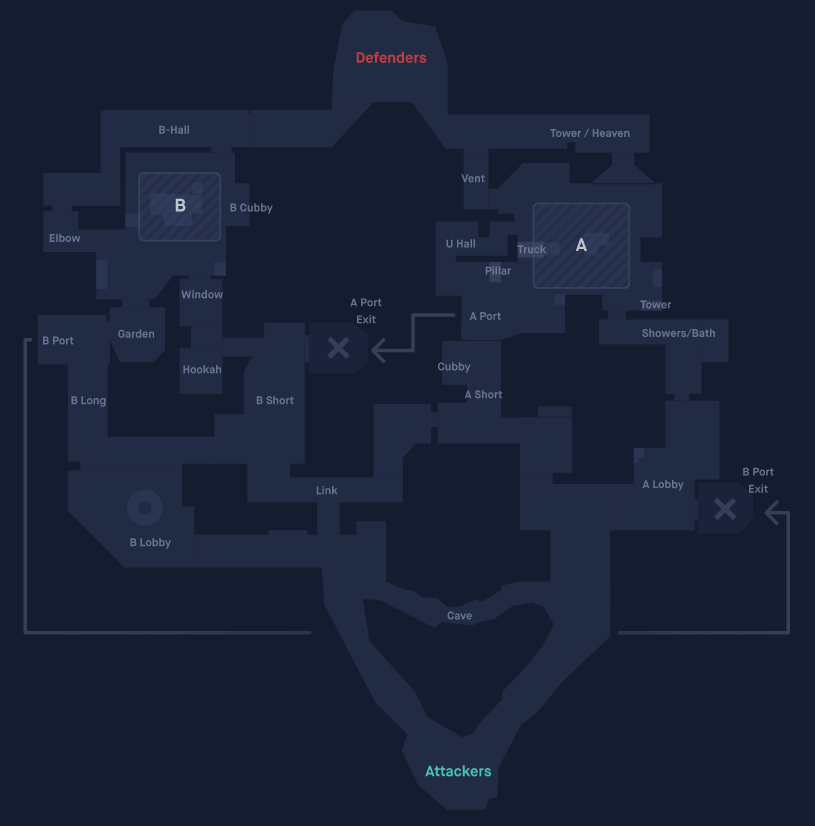
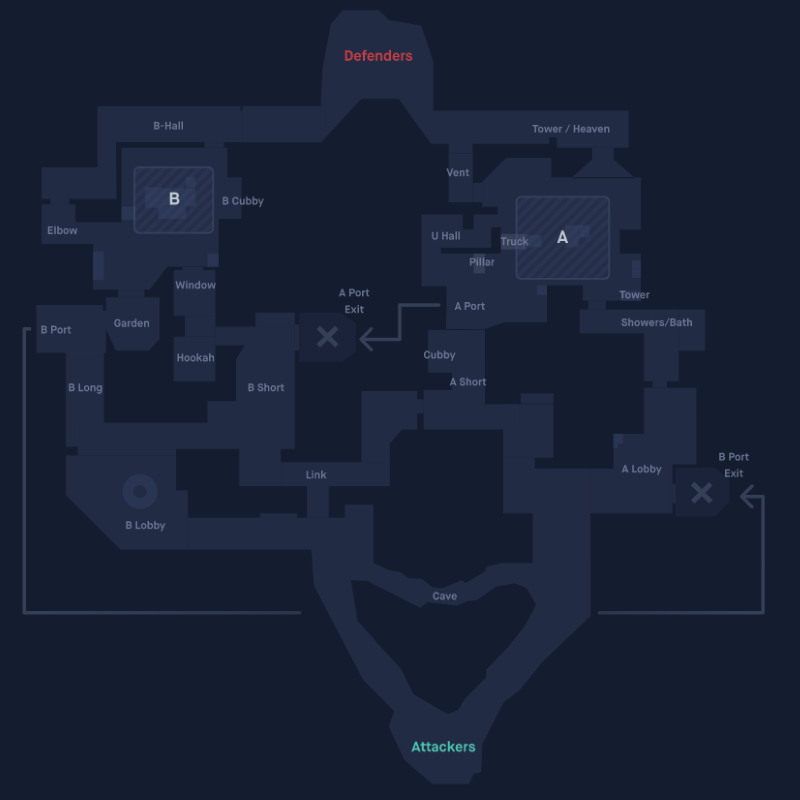
scaled map images to be the same resolution and a consistent size in the viewer so abilities are always the right size. Changed map image drawing to be a part of the canvas. Implemented debug sliders

diff --git a/ValorantStratPlanner/src/StratEditor/StratEditor.java b/ValorantStratPlanner/src/StratEditor/StratEditor.java
@@ -9,7 +9,9 @@ import javafx.event.ActionEvent;
 import javafx.event.EventHandler;
 import javafx.fxml.FXML;
 import javafx.scene.canvas.Canvas;
+import javafx.scene.canvas.GraphicsContext;
 import javafx.scene.control.Button;
+import javafx.scene.control.Slider;
 import javafx.scene.image.Image;
 import javafx.scene.image.ImageView;
 import javafx.scene.layout.*;
@@ -18,6 +20,7 @@ import java.util.ArrayList;
 
 import Main.AppController;
 import javafx.scene.paint.Color;
+import javafx.scene.text.TextAlignment;
 
 import static StratElements.CharacterAbility.areaDenialRadius;
 import static StratElements.CharacterAbility.visionBlockRadius;
@@ -42,38 +45,51 @@ public class StratEditor {
     private Button undoButton;
     @FXML
     private Button mainMenuButton;
+    @FXML
+    private Slider debugSlider1;
+    @FXML
+    private Slider debugSlider2;
+    @FXML
+    private Slider debugSlider3;
 
     //non-FXML fields
     private AppController appController;
-    public enum Map {BIND, SPLIT, HAVEN};
-    private Map curMap;
+    private DataController.Map curMap;
+    private Image mapImage;
     private ArrayList<StratElement> elements = new ArrayList<StratElement>();
     private TwoPointStratElement curElement;
     private ArrayList<Button> toolButtons;
+    private double mapImageSize;
 
     /**
      * To be called when this scene is initialized to setup scene objects at runtime
      */
     public void setup(){
         createToolSelectorButtons();
-//        drawingController = DrawingController.getInstance();
+        updateCanvas();
+
+        //comment these lines to get the debug sliders back
+        debugSlider1.setVisible(false);
+        debugSlider2.setVisible(false);
+        debugSlider3.setVisible(false);
     }
 
     /**
      * Sets the map image that is displayed on the canvas beneath the strats
      * @param map - a StratEditor.Map typed object describing the map to use
      */
-    public void setMapImage(Map map){
+    public void setMapImage(DataController.Map map){
         this.curMap = map;
+        mapImage = appController.getData().getMapImage(map);
         switch (map){
             case BIND:
-                setMapViewerImage("MapImages/Bind.PNG");
+                mapImageSize = 900;
                 break;
             case SPLIT:
-                setMapViewerImage("MapImages/Split.PNG");
+                mapImageSize = 770;
                 break;
             case HAVEN:
-                setMapViewerImage("MapImages/Haven.PNG");
+                mapImageSize = 830;
                 break;
         }
     }
@@ -155,6 +171,21 @@ public class StratEditor {
             GridPane.setColumnIndex(iconHolder, 0);
             GridPane.setRowIndex(iconHolder, i);
         }
+
+        //Debug slider handlers
+        formatDebugSlider(debugSlider1);
+        formatDebugSlider(debugSlider2);
+        formatDebugSlider(debugSlider3);
+//        debugSlider1.valueProperty().addListener((observable, newVal, oldVal) -> {
+//            mapImageSize = newVal.doubleValue();
+//            System.out.println("New map image size = " + mapImageSize);
+//            updateCanvas();
+//        });
+    }
+
+    private void formatDebugSlider(Slider s){
+        s.setMin(0);
+        s.setMax(1000);
     }
 
     private void makeAbilityButton(DataController.Ability ability, EventHandler<ActionEvent> eventHandler){
@@ -484,6 +515,8 @@ public class StratEditor {
     private void formatToolButton(Button b){
 //        b.setBackground(new Background(new BackgroundFill(Color.RED, null, null)));
         b.setPrefSize(1000, 1000);
+        b.wrapTextProperty().setValue(true);
+        b.setTextAlignment(TextAlignment.CENTER);
     }
 
     /**
@@ -491,27 +524,27 @@ public class StratEditor {
      * i.e. in the event of a new element being added/removed
      */
     public void updateCanvas(){
-        canvas.getGraphicsContext2D().clearRect(0, 0, canvas.getWidth(), canvas.getHeight());
+        GraphicsContext gc = canvas.getGraphicsContext2D();
+        gc.clearRect(0, 0, canvas.getWidth(), canvas.getHeight());
+        gc.drawImage(mapImage, 0, 0, mapImageSize, mapImageSize);
         if(curElement != null){
-            curElement.draw(canvas.getGraphicsContext2D());
+            curElement.draw(gc);
         }
-//        DrawingController.getInstance().getElements().stream().forEach(e ->{
-//            e.draw(canvas.getGraphicsContext2D());
-//        });
         elements.stream().forEach(e ->{
-            e.draw(canvas.getGraphicsContext2D());
+            e.draw(gc);
         });
     }
 
-    /**
-     * helper method for setMapImage that takes in the actual filepath instead of the enumerated map type
-     * @param imageFileName
-     */
-    private void setMapViewerImage(String imageFileName){
-        String absoluteURL = getClass().getResource("/" + imageFileName).toString();
-        BackgroundImage mapImage = new BackgroundImage(new Image(absoluteURL), BackgroundRepeat.NO_REPEAT, BackgroundRepeat.NO_REPEAT, null, null);
-        mapViewer.setBackground(new Background(mapImage));
-    }
+    //DEPRECATED
+//    /**
+//     * helper method for setMapImage that takes in the actual filepath instead of the enumerated map type
+//     * @param imageFileName
+//     */
+//    private void setMapViewerImage(String imageFileName){
+//        String absoluteURL = getClass().getResource("/" + imageFileName).toString();
+//        BackgroundImage mapImage = new BackgroundImage(new Image(absoluteURL), BackgroundRepeat.NO_REPEAT, BackgroundRepeat.NO_REPEAT, null, null);
+//        mapViewer.setBackground(new Background(mapImage));
+//    }
 
     //FXML defined button handlers
     @FXML

diff --git a/ValorantStratPlanner/src/DataLayer/AbilityImageStore.java b/ValorantStratPlanner/src/DataLayer/AbilityImageStore.java
@@ -18,20 +18,22 @@ public class AbilityImageStore extends ImageStore{
      * and must be called before the images can be accessed
      */
     public void loadImages(){
-        ArrayList<String> abilities = new ArrayList<String>(Arrays.asList(
-                "Sky_Smoke", "Orbital_Strike", "Stim_Beacon", "Incendiary",
-                "Paint_Shells", "Showstopper", "Boom_Bot", "Blast_Pack",
-                "Spycam", "Neural_Theft", "Tripwire", "Cyber_Cage",
-                "Tailwind", "Bladestorm", "Cloudburst", "Updraft",
-                "Dark_Cover", "From_the_Shadows", "Shrouded_Step", "Paranoia",
-                "Fault_Line", "Rolling_Thunder", "Aftershock", "Flashpoint",
-                "Toxic_Screen", "Vipers_Pit", "Snake_Bite", "Poison_Cloud",
-                "Hot_Hands", "Run_it_Back", "Blaze", "Curveball",
-                "Healing_Orb", "Resurrection", "Barrier_Orb", "Slow_Orb",
-                "Recon_Bolt", "Hunters_Fury", "Owl_Drone", "Shock_Bolt"
+        if(images.size() == 0) {
+            ArrayList<String> abilities = new ArrayList<String>(Arrays.asList(
+                    "Sky_Smoke", "Orbital_Strike", "Stim_Beacon", "Incendiary",
+                    "Paint_Shells", "Showstopper", "Boom_Bot", "Blast_Pack",
+                    "Spycam", "Neural_Theft", "Tripwire", "Cyber_Cage",
+                    "Tailwind", "Bladestorm", "Cloudburst", "Updraft",
+                    "Dark_Cover", "From_the_Shadows", "Shrouded_Step", "Paranoia",
+                    "Fault_Line", "Rolling_Thunder", "Aftershock", "Flashpoint",
+                    "Toxic_Screen", "Vipers_Pit", "Snake_Bite", "Poison_Cloud",
+                    "Hot_Hands", "Run_it_Back", "Blaze", "Curveball",
+                    "Healing_Orb", "Resurrection", "Barrier_Orb", "Slow_Orb",
+                    "Recon_Bolt", "Hunters_Fury", "Owl_Drone", "Shock_Bolt"
 
-        ));
-        loadImageSet(abilities, ".png");
+            ));
+            loadImageSet(abilities, ".png");
+        }
     }
 
     /**
@@ -41,6 +43,7 @@ public class AbilityImageStore extends ImageStore{
      * @return Image
      */
     public Image getAbilityImage(String ability){
+        loadImages();
         return images.getOrDefault(ability.toLowerCase(), null);
     }
 
@@ -48,9 +51,7 @@ public class AbilityImageStore extends ImageStore{
     GETTERS AND SETTERS
      */
     public HashMap<String, Image> getImages(){
-        if(images.size() == 0){
-            loadImages();
-        }
+        loadImages();
         return images;
     }
 }

diff --git a/ValorantStratPlanner/src/DataLayer/DataController.java b/ValorantStratPlanner/src/DataLayer/DataController.java
@@ -5,6 +5,7 @@ import javafx.scene.image.Image;
 public class DataController {
     private AbilityImageStore abilityImages;
     private CharacterImageStore characterImages;
+    private MapImageStore mapImages;
 
     public enum Ability {
         SKY_SMOKE, ORBITAL_STRIKE, STIM_BEACON, INCENDIARY,
@@ -23,12 +24,18 @@ public class DataController {
         BRIMSTONE, RAZE, CYPHER, JETT, OMEN, BREACH, VIPER, PHOENIX, SAGE, SOVA
     };
 
+    public enum Map {
+        BIND, SPLIT, HAVEN
+    };
+
     //Default constructor, initializes lists
     public DataController(){
         abilityImages = new AbilityImageStore("AbilityImages");
         abilityImages.loadImages();
         characterImages = new CharacterImageStore("CharacterIcons");
         characterImages.loadImages();
+        mapImages = new MapImageStore("MapImages");
+        mapImages.loadImages();
     }
 
     /**
@@ -177,6 +184,13 @@ public class DataController {
         return label;
     }
 
+    public Image getMapImage(Map map){
+        return mapImages.getMapImage(map);
+    }
+
+    public Image getMapImage(String mapName){
+        return mapImages.getMapImage(mapName);
+    }
     /**
      * returns an Image containing the icon for the ability with the given name,
      * or null if no image is found associated with that ability name

diff --git a/ValorantStratPlanner/src/DataLayer/CharacterImageStore.java b/ValorantStratPlanner/src/DataLayer/CharacterImageStore.java
@@ -12,16 +12,20 @@ public class CharacterImageStore extends ImageStore{
         this.imageFolderPath = imageFolderPath;
     }
 
-    public void loadImages(){
-        ArrayList<String> charNames = new ArrayList<>(Arrays.asList("Brimstone", "Raze", "Cypher", "Jett", "Omen", "Breach", "Viper", "Phoenix", "Sage", "Sova"));
-        loadImageSet(charNames, ".png");
+    public void loadImages() {
+        if(images.size() == 0) {
+            ArrayList<String> charNames = new ArrayList<>(Arrays.asList("Brimstone", "Raze", "Cypher", "Jett", "Omen", "Breach", "Viper", "Phoenix", "Sage", "Sova"));
+            loadImageSet(charNames, ".png");
+        }
     }
 
     public Image getCharacterIcon(String characterName){
+        loadImages();
         return images.getOrDefault(characterName.toLowerCase(), null);
     }
 
     public Image getCharacterIcon(DataController.Character character){
+        loadImages();
         return images.getOrDefault(character.toString().toLowerCase(), null);
     }
 }

diff --git a/ValorantStratPlanner/src/MenuScreen/MenuScreen.java b/ValorantStratPlanner/src/MenuScreen/MenuScreen.java
@@ -1,5 +1,6 @@
 package MenuScreen;
 
+import DataLayer.DataController;
 import Main.AppController;
 import StratEditor.StratEditor;
 import javafx.fxml.FXML;
@@ -25,19 +26,19 @@ public class MenuScreen {
     //FXML defined button handlers
     @FXML
     private void setMapToBind(){
-        appController.getStratEditor().setMapImage(StratEditor.Map.BIND);
+        appController.getStratEditor().setMapImage(DataController.Map.BIND);
         appController.setSceneToStratEditor();
     }
 
     @FXML
     private void setMapToSplit(){
-        appController.getStratEditor().setMapImage(StratEditor.Map.SPLIT);
+        appController.getStratEditor().setMapImage(DataController.Map.SPLIT);
         appController.setSceneToStratEditor();
     }
 
     @FXML
     private void setMapToHaven(){
-        appController.getStratEditor().setMapImage(StratEditor.Map.HAVEN);
+        appController.getStratEditor().setMapImage(DataController.Map.HAVEN);
         appController.setSceneToStratEditor();
     }
 

diff --git a/ValorantStratPlanner/src/DataLayer/ImageStore.java b/ValorantStratPlanner/src/DataLayer/ImageStore.java
@@ -9,6 +9,8 @@ import java.util.HashMap;
 public abstract class ImageStore {
     protected HashMap<String, Image> images = new HashMap<>();
     protected String imageFolderPath;
+    protected double prefWidth = 32;
+    protected double prefHeight = 32;
 
     public abstract void loadImages();
 
@@ -22,11 +24,11 @@ public abstract class ImageStore {
             URL url = getClass().getResource(path);
             if(url != null) {
                 String urlStr = url.toString();
-                Image i = new Image(urlStr, 32, 32, true, false);
+                Image i = new Image(urlStr, prefWidth, prefHeight, true, false);
                 images.put(n.toLowerCase(), i);
             }
             else{
-                System.out.println("ERROR: failed to load character icon for " + n);
+                System.out.println("ERROR: failed to load image " + imageFolderPath + "/" + n + fileExtension);
             }
         });
     }

diff --git a/ValorantStratPlanner/src/DataLayer/MapImageStore.java b/ValorantStratPlanner/src/DataLayer/MapImageStore.java
@@ -1,0 +1,31 @@
+package DataLayer;
+
+import javafx.scene.image.Image;
+
+import java.util.ArrayList;
+import java.util.Arrays;
+
+public class MapImageStore extends ImageStore {
+    public MapImageStore(String imageFolderPath){
+        this.imageFolderPath = imageFolderPath;
+        prefWidth = 1000;
+        prefHeight = 800;
+    }
+
+    public void loadImages(){
+        if(images.size() == 0) {
+            ArrayList<String> mapNames = new ArrayList<>(Arrays.asList("Bind", "Split", "Haven"));
+            loadImageSet(mapNames, ".png");
+        }
+    }
+
+    public Image getMapImage(String mapName){
+        loadImages();
+        return images.getOrDefault(mapName.toLowerCase(), null);
+    }
+
+    public Image getMapImage(DataController.Map map){
+        loadImages();
+        return images.getOrDefault(map.toString().toLowerCase(), null);
+    }
+}

diff --git a/ValorantStratPlanner/src/StratElements/CharacterAbility.java b/ValorantStratPlanner/src/StratElements/CharacterAbility.java
@@ -55,12 +55,6 @@ public class CharacterAbility extends TwoPointStratElement{
     }
 
     public void draw(GraphicsContext gc){
-        decorators.stream().forEach(eld -> {
-            if(eld.getParent() == null){
-                System.out.println("Parent not properly set on a decorator");
-            }
-            System.out.println("Drawing decorator @" + eld.getX1() + ", " + eld.getY1());
-        });
         decorators.stream().forEach(ElementDecorator::setCoordsFromParent);
         icon.setCoords(x1, y1);
         icon.draw(gc);

diff --git a/ValorantStratPlanner/src/Main/AppController.java b/ValorantStratPlanner/src/Main/AppController.java
@@ -52,6 +52,7 @@ public class AppController {
     public void setSceneToStratEditor(){
         maximizeWindow();
         stage.setScene(stratEditorScene);
+        stratEditor.updateCanvas();
     }
 
     /**
